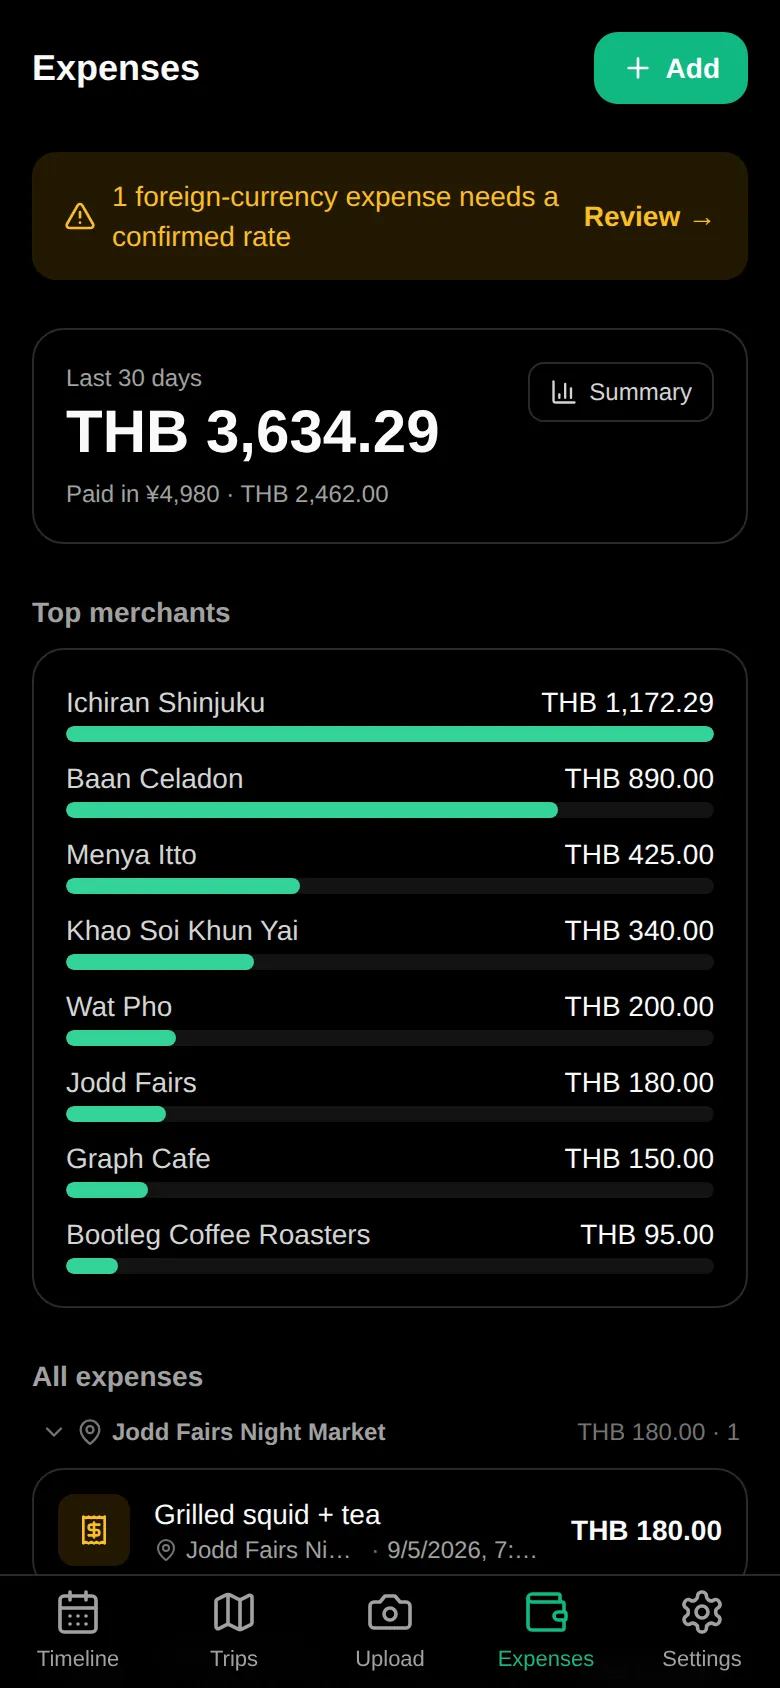
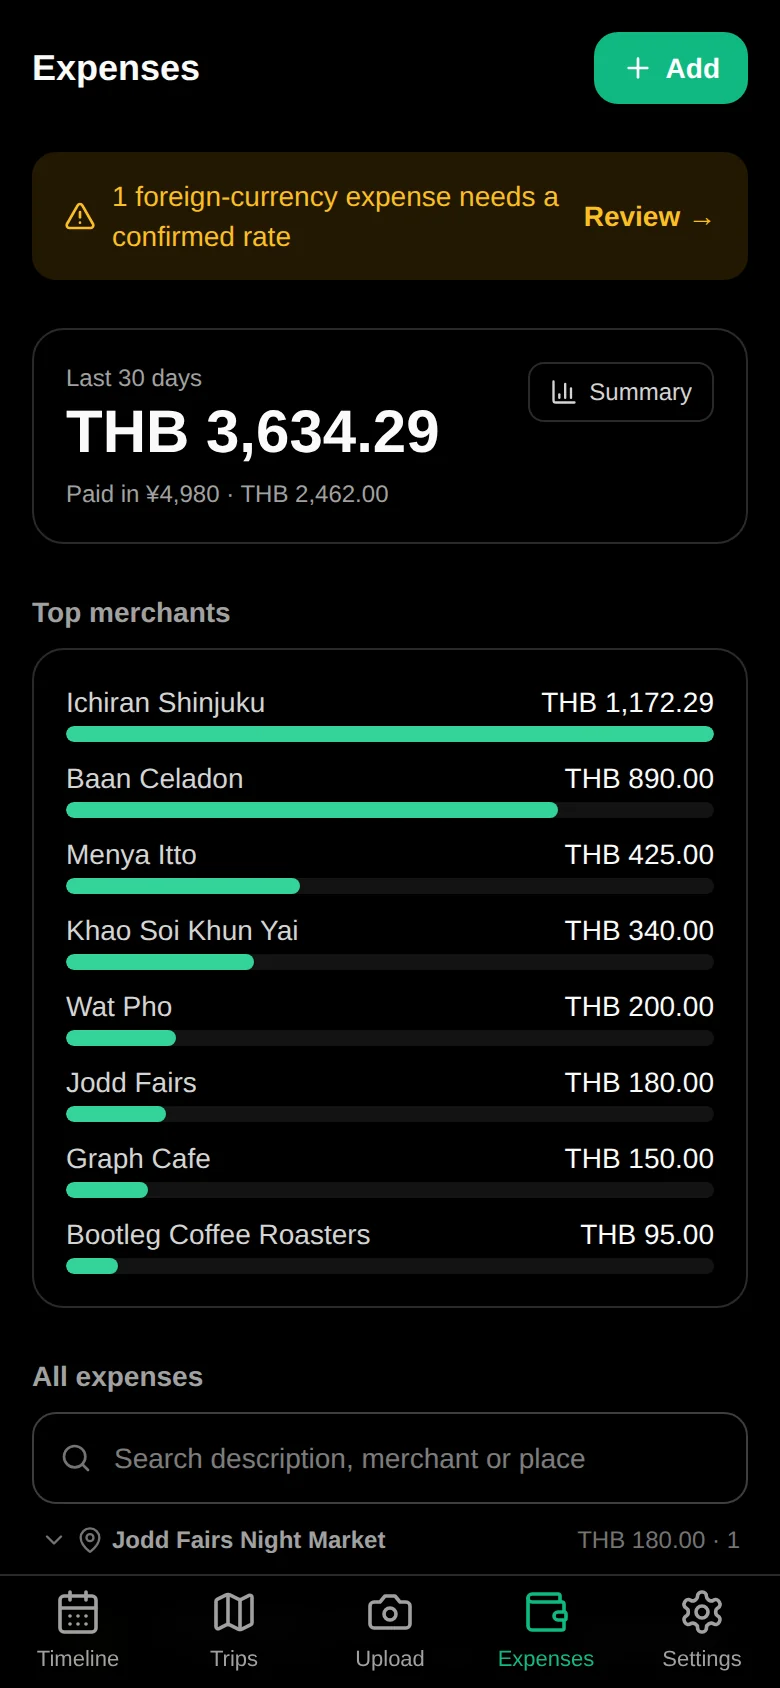
Add expense search (#33)
* Add expense search

The expenses list had no way to find a specific expense — with more than a
page of spending, answering "what did I pay at that ramen place?" meant
clicking through pages.

Both list endpoints now take `q`, matching case-insensitively against the
three things a row actually shows: description, typed merchant, and the
resolved place's name (via an outer join, applied only when a term is
present). Wildcard characters are escaped so a typed `%` or `_` is a
character to find, not a pattern. In /grouped the filter goes inside the
existing `_filtered` closure, so the count and the rows stay in sync and
grouping is untouched — runs still collapse only where consecutive.

On the page, a debounced search box above "All expenses" that resets to
page 1 on a new term, with a clear button and its own empty state. The
standing summaries above it stay unfiltered.

Claude-Session: https://claude.ai/code/session_0186sEXzbaUeLMCPYgJjiAKB

* Refresh the expenses screenshots in the README

Both the light and dark shots predate the search box. Recaptured from the
seeded demo data at the same 390x844 @2x framing as the originals, with the
theme following the browser's colour scheme as the app does — so they also
pick up the photoless expenses now shown in the list.

Claude-Session: https://claude.ai/code/session_0186sEXzbaUeLMCPYgJjiAKB

---------

Changed region(s): [[0.0308, 0.8318, 0.9538, 0.955]]

diff --git a/frontend/src/pages/ExpensesPage.tsx b/frontend/src/pages/ExpensesPage.tsx
@@ -8,13 +8,16 @@ import {
   Pencil,
   Plus,
   Receipt,
+  Search,
   Trash2,
+  X,
 } from 'lucide-react';
 import { useEffect, useState } from 'react';
 import { ExpenseSheet } from '../components/ExpenseSheet';
 import { ConfirmRateSheet } from '../components/ConfirmRateSheet';
 import { ExpenseSummaryModal } from '../components/ExpenseSummaryModal';
 import { ImageModal } from '../components/ImageModal';
+import { inputClass } from '../components/Sheet';
 import { useAuth } from '../context/AuthContext';
 import {
   useDeleteExpense,
@@ -25,6 +28,18 @@ import {
 } from '../hooks/useData';
 import { formatDateTime, formatMoney, last30DayRange } from '../lib/format';
 import type { Expense, ExpenseGroup, MerchantTotal } from '../types';
+
+const SEARCH_DEBOUNCE_MS = 250;
+
+/** The value as it was `ms` ago, so typing doesn't fire a request per keystroke. */
+function useDebounced(value: string, ms: number) {
+  const [settled, setSettled] = useState(value);
+  useEffect(() => {
+    const timer = setTimeout(() => setSettled(value), ms);
+    return () => clearTimeout(timer);
+  }, [value, ms]);
+  return settled;
+}
 
 /** Single-hue magnitude bars: one series, values in ink rather than series color. */
 function MerchantBars({ merchants }: { merchants: MerchantTotal[] }) {
@@ -281,7 +296,9 @@ export function ExpensesPage() {
   const { data: last30 } = useExpenseSummary(last30From, last30To);
   const { data: needsReview } = useExpenses(true);
   const [page, setPage] = useState(1);
-  const { data: expensePage, isLoading, isFetching } = useExpensesGrouped(page);
+  const [query, setQuery] = useState('');
+  const search = useDebounced(query, SEARCH_DEBOUNCE_MS);
+  const { data: expensePage, isLoading, isFetching } = useExpensesGrouped(page, search);
   const [adding, setAdding] = useState(false);
   const [editing, setEditing] = useState<Expense | null>(null);
   const [confirming, setConfirming] = useState<Expense | null>(null);
@@ -293,6 +310,8 @@ export function ExpensesPage() {
   useEffect(() => {
     if (expensePage && page > expensePage.total_pages) setPage(expensePage.total_pages);
   }, [expensePage, page]);
+  // A search from deep in the list has its own, much shorter, run of pages.
+  useEffect(() => setPage(1), [search]);
 
   return (
     <div className="space-y-6">
@@ -361,12 +380,42 @@ export function ExpensesPage() {
 
       <section className="space-y-2">
         <h2 className="text-sm font-semibold text-ink-3">All expenses</h2>
+        <div className="relative">
+          <Search className="pointer-events-none absolute left-3.5 top-1/2 size-4 -translate-y-1/2 text-ink-4" />
+          <input
+            // Not type="search": desktop Chrome draws its own clear button
+            // next to the one below, and this one works on every browser.
+            type="text"
+            value={query}
+            onChange={(e) => setQuery(e.target.value)}
+            placeholder="Search description, merchant or place"
+            enterKeyHint="search"
+            autoCapitalize="off"
+            autoCorrect="off"
+            className={`${inputClass} pl-10 ${query ? 'pr-10' : ''} text-sm`}
+          />
+          {query && (
+            <button
+              type="button"
+              onClick={() => setQuery('')}
+              aria-label="Clear search"
+              className="absolute right-2 top-1/2 flex size-7 -translate-y-1/2 items-center justify-center rounded-full text-ink-4 active:bg-surface-2"
+            >
+              <X className="size-4" />
+            </button>
+          )}
+        </div>
         {isLoading && <p className="py-8 text-center text-sm text-ink-4">Loading…</p>}
-        {expensePage?.groups.length === 0 && (
-          <p className="py-12 text-center text-sm text-ink-3">
-            Nothing yet — upload a receipt photo, or add an expense by hand.
-          </p>
-        )}
+        {expensePage?.groups.length === 0 &&
+          (search ? (
+            <p className="py-12 text-center text-sm text-ink-3">
+              No expenses match “{search}”.
+            </p>
+          ) : (
+            <p className="py-12 text-center text-sm text-ink-3">
+              Nothing yet — upload a receipt photo, or add an expense by hand.
+            </p>
+          ))}
         <ul className={`space-y-2 ${isFetching ? 'opacity-60' : ''}`}>
           {expensePage?.groups.map((group) => (
             <ExpenseGroupSection

diff --git a/frontend/src/hooks/useData.ts b/frontend/src/hooks/useData.ts
@@ -162,10 +162,13 @@ export function useExpenses(needsReview?: boolean, dateFrom?: string, dateTo?: s
 
 /** The "All expenses" list, most recent first and paginated over raw
  *  expenses — see the /grouped endpoint for how runs collapse into groups. */
-export function useExpensesGrouped(page: number) {
+export function useExpensesGrouped(page: number, q?: string) {
+  const params = new URLSearchParams({ page: String(page) });
+  const term = q?.trim() ?? '';
+  if (term) params.set('q', term);
   return useQuery({
-    queryKey: ['expenses', 'grouped', page],
-    queryFn: () => apiJson<ExpensePage>(`/api/expenses/grouped?page=${page}`),
+    queryKey: ['expenses', 'grouped', page, term],
+    queryFn: () => apiJson<ExpensePage>(`/api/expenses/grouped?${params}`),
     placeholderData: keepPreviousData,
   });
 }

diff --git a/backend/tests/test_expense_search.py b/backend/tests/test_expense_search.py
@@ -1,0 +1,118 @@
+"""Searching the expenses list: a term matches the description, the typed
+merchant, or the resolved place's name — the three things a row shows."""
+
+from tests.conftest import register
+from tests.test_expense_grouped import _a_place, _spend
+
+
+async def _seed(client, db_sessionmaker):
+    place_id = await _a_place(db_sessionmaker, "Menya Itto")
+    await _spend(client, "425.00", "Menya Itto", place_id, "2026-08-10T12:00:00Z")
+    await _spend(client, "95.00", "Bootleg Coffee Roasters", spent_at="2026-08-11T08:00:00Z")
+    await _spend(client, "62.00", "BTS Ari", spent_at="2026-08-12T09:00:00Z")
+    return place_id
+
+
+def _merchants(page):
+    return [e["merchant"] for group in page["groups"] for e in group["expenses"]]
+
+
+async def test_search_matches_merchant_text_case_insensitively(client, db_sessionmaker):
+    await register(client)
+    await _seed(client, db_sessionmaker)
+
+    page = (await client.get("/api/expenses/grouped", params={"q": "cOfFeE"})).json()
+    assert _merchants(page) == ["Bootleg Coffee Roasters"]
+
+
+async def test_search_matches_the_description(client):
+    await register(client)
+    await client.post(
+        "/api/expenses",
+        json={
+            "total": "180.00",
+            "currency": "THB",
+            "description": "Grilled squid",
+            "merchant": "Jodd Fairs",
+        },
+    )
+
+    page = (await client.get("/api/expenses/grouped", params={"q": "squid"})).json()
+    assert [e["description"] for group in page["groups"] for e in group["expenses"]] == [
+        "Grilled squid"
+    ]
+
+
+async def test_search_matches_the_resolved_place_name(client, db_sessionmaker):
+    await register(client)
+    place_id = await _a_place(db_sessionmaker, "Baan Celadon")
+    # Merchant text that shares nothing with the place name, so a match can
+    # only have come through the join.
+    await _spend(client, "890.00", "ceramics shop", place_id, "2026-08-10T11:00:00Z")
+    await _spend(client, "62.00", "BTS Ari", spent_at="2026-08-12T09:00:00Z")
+
+    page = (await client.get("/api/expenses/grouped", params={"q": "celadon"})).json()
+    assert _merchants(page) == ["ceramics shop"]
+    assert page["groups"][0]["place"]["name"] == "Baan Celadon"
+
+
+async def test_search_narrows_the_totals_not_just_the_visible_rows(client, db_sessionmaker):
+    await register(client)
+    await _seed(client, db_sessionmaker)
+
+    page = (await client.get("/api/expenses/grouped", params={"q": "b", "page_size": 1})).json()
+    # "Bootleg Coffee Roasters" and "BTS Ari", not the ramen
+    assert page["total"] == 2
+    assert page["total_pages"] == 2
+
+
+async def test_a_term_with_no_matches_returns_an_empty_page(client, db_sessionmaker):
+    await register(client)
+    await _seed(client, db_sessionmaker)
+
+    page = (await client.get("/api/expenses/grouped", params={"q": "zzz"})).json()
+    assert page["groups"] == []
+    assert page["total"] == 0
+    assert page["total_pages"] == 1
+
+
+async def test_wildcard_characters_are_matched_literally(client, db_sessionmaker):
+    await register(client)
+    await _seed(client, db_sessionmaker)
+    await _spend(client, "10.00", "50% off stall", spent_at="2026-08-13T09:00:00Z")
+
+    # A bare % would otherwise match every expense
+    page = (await client.get("/api/expenses/grouped", params={"q": "%"})).json()
+    assert _merchants(page) == ["50% off stall"]
+
+    # As would _, one character at a time
+    page = (await client.get("/api/expenses/grouped", params={"q": "_"})).json()
+    assert page["total"] == 0
+
+
+async def test_search_never_reaches_another_users_expenses(client):
+    await register(client, email="a@example.com")
+    await _spend(client, "95.00", "Bootleg Coffee Roasters", spent_at="2026-08-11T08:00:00Z")
+
+    await register(client, email="b@example.com")
+    page = (await client.get("/api/expenses/grouped", params={"q": "coffee"})).json()
+    assert page["groups"] == []
+    assert page["total"] == 0
+
+
+async def test_a_blank_term_is_the_same_as_no_search(client, db_sessionmaker):
+    await register(client)
+    await _seed(client, db_sessionmaker)
+
+    unsearched = (await client.get("/api/expenses/grouped")).json()
+    for blank in ("", "   "):
+        page = (await client.get("/api/expenses/grouped", params={"q": blank})).json()
+        assert page == unsearched
+
+
+async def test_the_flat_list_takes_the_same_search(client, db_sessionmaker):
+    await register(client)
+    await _seed(client, db_sessionmaker)
+
+    expenses = (await client.get("/api/expenses", params={"q": "itto"})).json()
+    assert [e["merchant"] for e in expenses] == ["Menya Itto"]

diff --git a/backend/app/routers/expenses.py b/backend/app/routers/expenses.py
@@ -7,7 +7,7 @@ from fastapi import APIRouter, HTTPException, Query, status
 from sqlalchemy.orm import selectinload
 
 from app.deps import CurrentUser, DbSession
-from app.models import Expense, ExpenseItem, Image, Trip
+from app.models import Expense, ExpenseItem, Image, Place, Trip
 from app.schemas import (
     ExpenseConfirm,
     ExpenseCreate,
@@ -43,6 +43,27 @@ def _range_filter(query, user_id: int, date_from: datetime | None, date_to: date
     return query
 
 
+def _search_filter(query, q: str | None):
+    """Match a typed term against the three things an expense row shows: the
+    description, the merchant text, and the resolved place's name.
+
+    Substring, case-insensitive, and the term is taken literally — a ``%`` or
+    ``_`` someone types is a character to find, not a wildcard.
+    """
+    term = (q or "").strip()
+    if not term:
+        return query
+    escaped = term.replace("\\", "\\\\").replace("%", "\\%").replace("_", "\\_")
+    pattern = f"%{escaped}%"
+    return query.outerjoin(Place, Expense.place_id == Place.id).where(
+        sa.or_(
+            Expense.description.ilike(pattern, escape="\\"),
+            Expense.merchant.ilike(pattern, escape="\\"),
+            Place.name.ilike(pattern, escape="\\"),
+        )
+    )
+
+
 def _group_key_py(expense: Expense) -> str:
     """Python-side mirror of ``_group_key_sql``, for bucketing fetched rows."""
     if expense.place_id is not None:
@@ -71,6 +92,7 @@ async def list_expenses(
     date_from: datetime | None = Query(default=None),
     date_to: datetime | None = Query(default=None),
     needs_review: bool | None = Query(default=None),
+    q: str | None = Query(default=None, max_length=120),
     limit: int = Query(default=100, le=500),
     offset: int = 0,
 ):
@@ -82,6 +104,7 @@ async def list_expenses(
     )
     if needs_review is not None:
         query = query.where(Expense.needs_review.is_(needs_review))
+    query = _search_filter(query, q)
     result = await db.execute(query.order_by(_spent.desc()).limit(limit).offset(offset))
     return [expense_out(expense) for expense in result.scalars()]
 
@@ -93,6 +116,7 @@ async def list_expenses_grouped(
     date_from: datetime | None = Query(default=None),
     date_to: datetime | None = Query(default=None),
     needs_review: bool | None = Query(default=None),
+    q: str | None = Query(default=None, max_length=120),
     page: int = Query(default=1, ge=1),
     page_size: int = Query(default=15, ge=1, le=50),
 ):
@@ -105,13 +129,17 @@ async def list_expenses_grouped(
     section. A place visited again after other spending in between gets a
     fresh section at its new position instead of pulling the earlier visit
     forward with it.
+
+    ``q`` searches description, merchant and place name. Grouping is unchanged
+    by it — runs still collapse only where they are consecutive, now within the
+    matching expenses.
     """
 
     def _filtered(query):
         query = _range_filter(query, user.id, date_from, date_to)
         if needs_review is not None:
             query = query.where(Expense.needs_review.is_(needs_review))
-        return query
+        return _search_filter(query, q)
 
     total = await db.scalar(
         sa.select(sa.func.count()).select_from(_filtered(sa.select(Expense.id)).subquery())

diff --git a/README.md b/README.md
@@ -18,7 +18,7 @@ places, expenses, and trips.
 
 | Timeline | Trip | Expenses |
 | --- | --- | --- |
-| ![Day timeline of stops and cash expenses, with photos and spend](docs/screenshots/timeline.webp) | ![Trip detail with days, stops, and route map](docs/screenshots/trip-detail.webp) | ![Expenses converted into the base currency](docs/screenshots/expenses.webp) |
+| ![Day timeline of stops and cash expenses, with photos and spend](docs/screenshots/timeline.webp) | ![Trip detail with days, stops, and route map](docs/screenshots/trip-detail.webp) | ![Expenses converted into the base currency, searchable by description, merchant or place](docs/screenshots/expenses.webp) |
 
 | Add expense | Confirm rate | Trip in progress |
 | --- | --- | --- |
